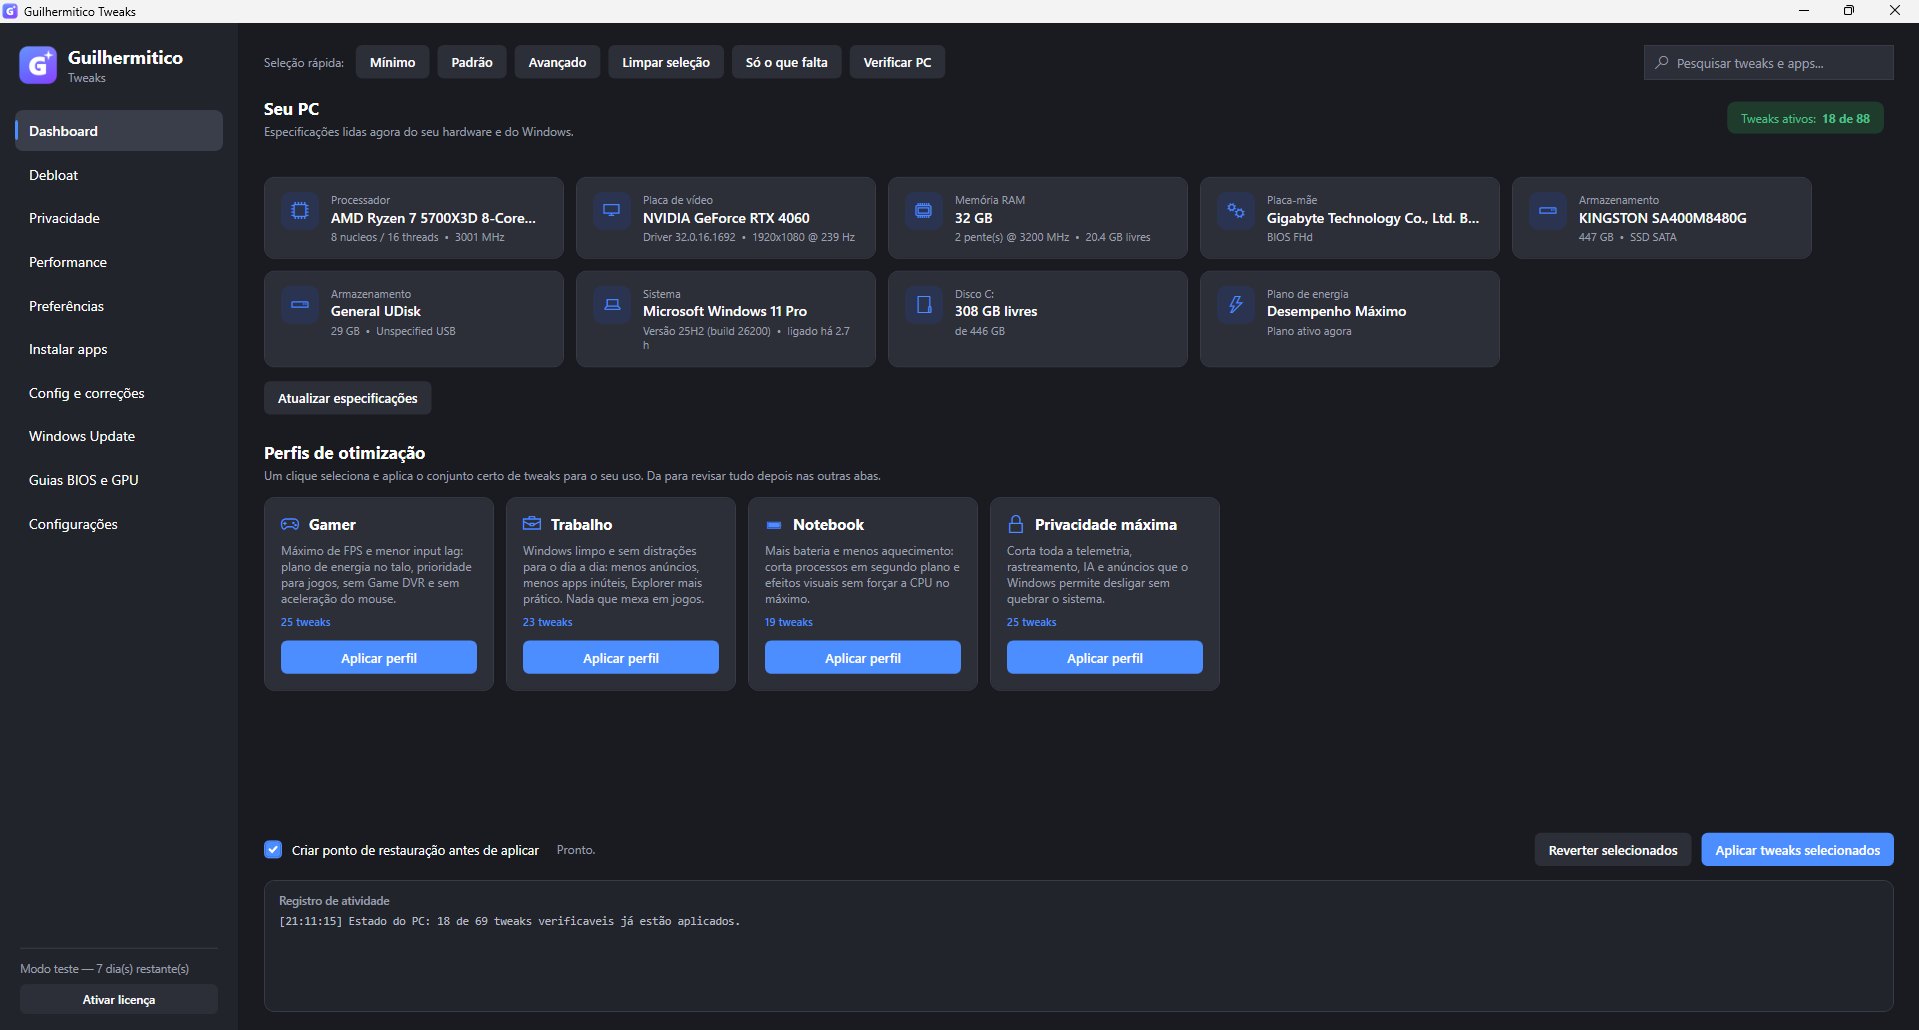
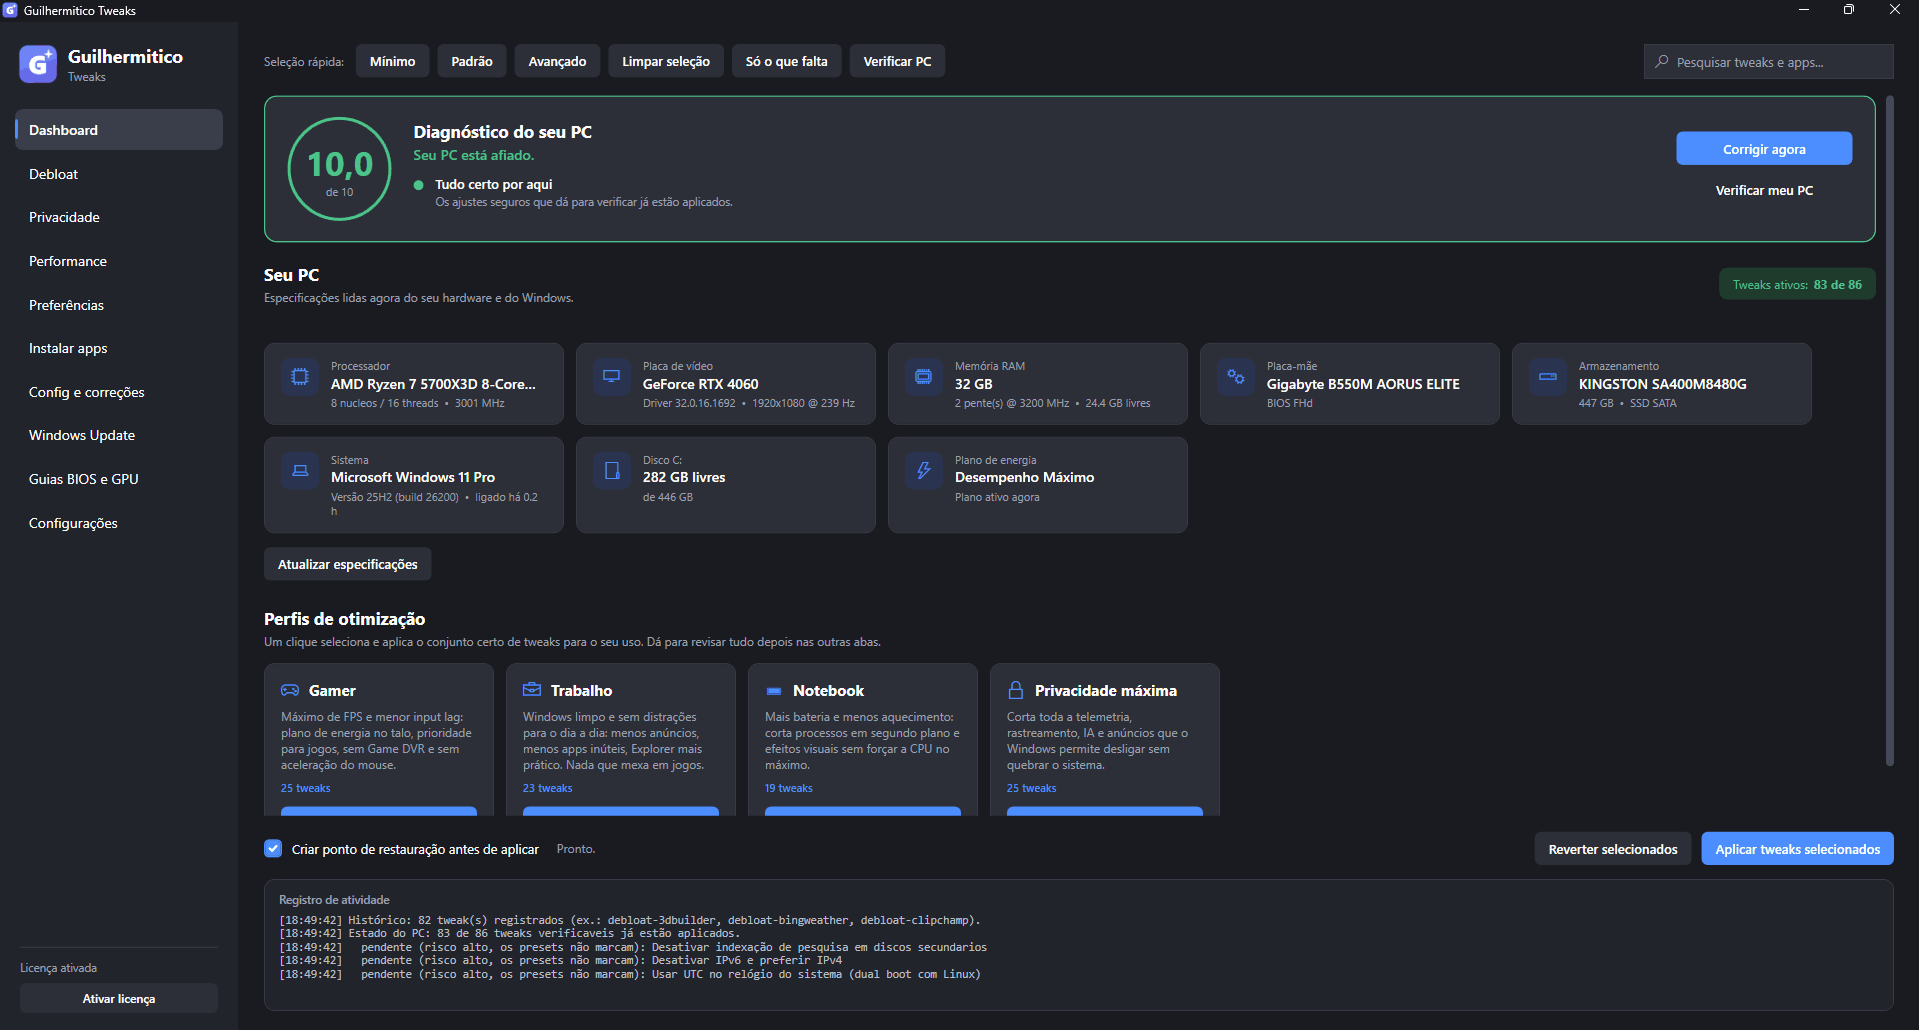
Troca os prints do app pelos da 1.4.1
Os anteriores mostravam a barra de titulo clara e a contagem antiga de
tweaks verificaveis. O print da Performance deu lugar ao da Privacidade.
As imagens foram reduzidas para 256 cores (~150 KB -> ~50 KB cada).

diff --git a/index.html b/index.html
@@ -282,19 +282,19 @@
       <figure class="shot">
         <a href="img/dashboard.png" target="_blank" rel="noopener">
           <img src="img/dashboard.png" width="1919" height="1030" loading="lazy"
-               alt="Dashboard mostrando processador, placa de vídeo, memória e os quatro perfis de otimização."></a>
-        <figcaption><b>Ele lê o seu PC.</b> Peças, versão do Windows e os 4 perfis de um clique.</figcaption>
+               alt="Dashboard com a nota de diagnóstico do PC, processador, placa de vídeo, memória e os quatro perfis de otimização."></a>
+        <figcaption><b>Ele lê o seu PC.</b> Nota de diagnóstico, peças, versão do Windows e os 4 perfis de um clique.</figcaption>
       </figure>
       <figure class="shot">
         <a href="img/desfazer.png" target="_blank" rel="noopener">
-          <img src="img/desfazer.png" width="1919" height="1031" loading="lazy"
+          <img src="img/desfazer.png" width="1919" height="1032" loading="lazy"
                alt="Tela de Configurações com o botão Desfazer tudo que o app aplicou."></a>
         <figcaption><b>Volta atrás com um botão.</b> Sem depender de ponto de restauração.</figcaption>
       </figure>
       <figure class="shot">
-        <a href="img/performance.png" target="_blank" rel="noopener">
-          <img src="img/performance.png" width="1919" height="1035" loading="lazy"
-               alt="Aba Performance com ajustes de plano de energia, efeitos visuais e Game DVR."></a>
+        <a href="img/privacidade.png" target="_blank" rel="noopener">
+          <img src="img/privacidade.png" width="1919" height="1032" loading="lazy"
+               alt="Aba Privacidade com ajustes de telemetria, Cortana, ID de publicidade e anúncios no Menu Iniciar, cada um com uma explicação."></a>
         <figcaption><b>Cada ajuste explicado.</b> Você entende antes de aplicar, não depois.</figcaption>
       </figure>
     </div>
